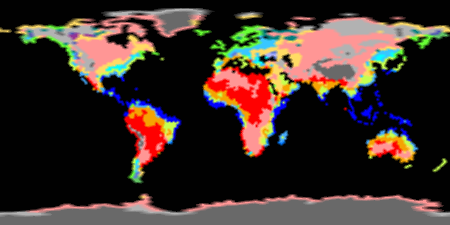
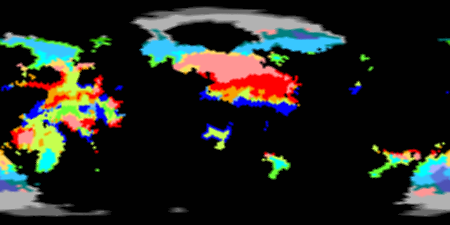
tweak climate params

diff --git a/planet/src/main/kotlin/dev/biserman/planet/planet/climate/ClimateSimulation.kt b/planet/src/main/kotlin/dev/biserman/planet/planet/climate/ClimateSimulation.kt
@@ -113,7 +113,7 @@ object ClimateSimulation {
             -(insolation - 0.6).signPow(1.01) * (adjustedContinentiality + 1).signPow(3.0) * 0.01
         )) - 1) * adjustedContinentiality.scaleAndCoerceIn(-2.0..2.0, 5.0..15.0)
 
-        val elevationAdjustment = if (elevation < 2000) 0.0 else (elevation - 2000) * 0.002
+        val elevationAdjustment = if (elevation < 2000) 0.0 else (elevation - 2000) * 0.001
 
         val latitudeAdjustment =
             tile.position.y.absoluteValue.pow(2).scaleAndCoerceIn(
@@ -131,8 +131,12 @@ object ClimateSimulation {
     fun simulateMoisture(planet: Planet) {
         var currentMoisture = planet.planetTiles.values.associateWith { tile ->
             val geoPoint = tile.tile.position.toGeoPoint()
-            val equatorEffect = 2.5 * max(0.0, 1 - geoPoint.latitudeDegrees.absoluteValue / 5.0)
-            val ferrelEffect = 1.0 * max(0.0, 1 - ((geoPoint.latitudeDegrees.absoluteValue - 60).absoluteValue) / 5.0)
+            val equatorEffect =
+                3.0 * tile.insolation.pow(5) * max(0.0, 1 - geoPoint.latitudeDegrees.absoluteValue / 5.0)
+            val ferrelEffect = 1.1 * tile.insolation.pow(0.75) * max(
+                0.0,
+                1 - ((geoPoint.latitudeDegrees.absoluteValue - 60).absoluteValue) / 15.0
+            )
             val oceanEffect = if (tile.isAboveWater) 0.0
             else {
                 val coolCurrentEffect = -0.3 * max(5 - (planet.coolCurrentDistanceMap[tile.tileId] ?: 10), 0)
@@ -142,8 +146,7 @@ object ClimateSimulation {
                         (tile.insolation.pow(2) + warmCurrentEffect + coolCurrentEffect) * startingMoistureMultiplier,
                         3.0
                     ),
-                    (1 - tile.insolation).pow(2) * 3
-//                    minStartingMoisture
+                    minStartingMoisture
                 )
             }
             equatorEffect + ferrelEffect + oceanEffect

diff --git a/planet/src/main/kotlin/dev/biserman/planet/planet/climate/Insolation.kt b/planet/src/main/kotlin/dev/biserman/planet/planet/climate/Insolation.kt
@@ -9,13 +9,14 @@ object Insolation {
     val solarConstant = 1.0 // 1361.0 // W/m^2
     val orbitEccentricity = 0.016718
     val axialTiltDeg = 23.45
-    val northSpringEquinox = 261.0
+    val periapsis = 3.5
+    val northSpringEquinox = 286.0
     val yearLength = 365.242
     val opticalDepthConstant = -0.14
 
     // Earth–Sun distance correction
     fun eccentricityFactor(dayOfYear: Double): Double {
-        return 1.0 + orbitEccentricity * 2 * cos(2.0 * Math.PI * dayOfYear / 365.0)
+        return 1.0 + orbitEccentricity * 2 * cos(2.0 * Math.PI * (dayOfYear + periapsis) / 365.0)
     }
 
     // Solar declination (radians, Cooper’s formula)

diff --git a/planet/src/main/kotlin/dev/biserman/planet/planet/climate/ClimateSimulationGlobals.kt b/planet/src/main/kotlin/dev/biserman/planet/planet/climate/ClimateSimulationGlobals.kt
@@ -4,7 +4,7 @@ package dev.biserman.planet.planet.climate
 object ClimateSimulationGlobals {
     val maxMoistureSteps = 50
     val startingMoistureMultiplier = 1.5
-    val minStartingMoisture = 1.0
+    val minStartingMoisture = 0.33
 
     val windBlockingSlope = 750.0
     val maxWindBlocking = 1.0
